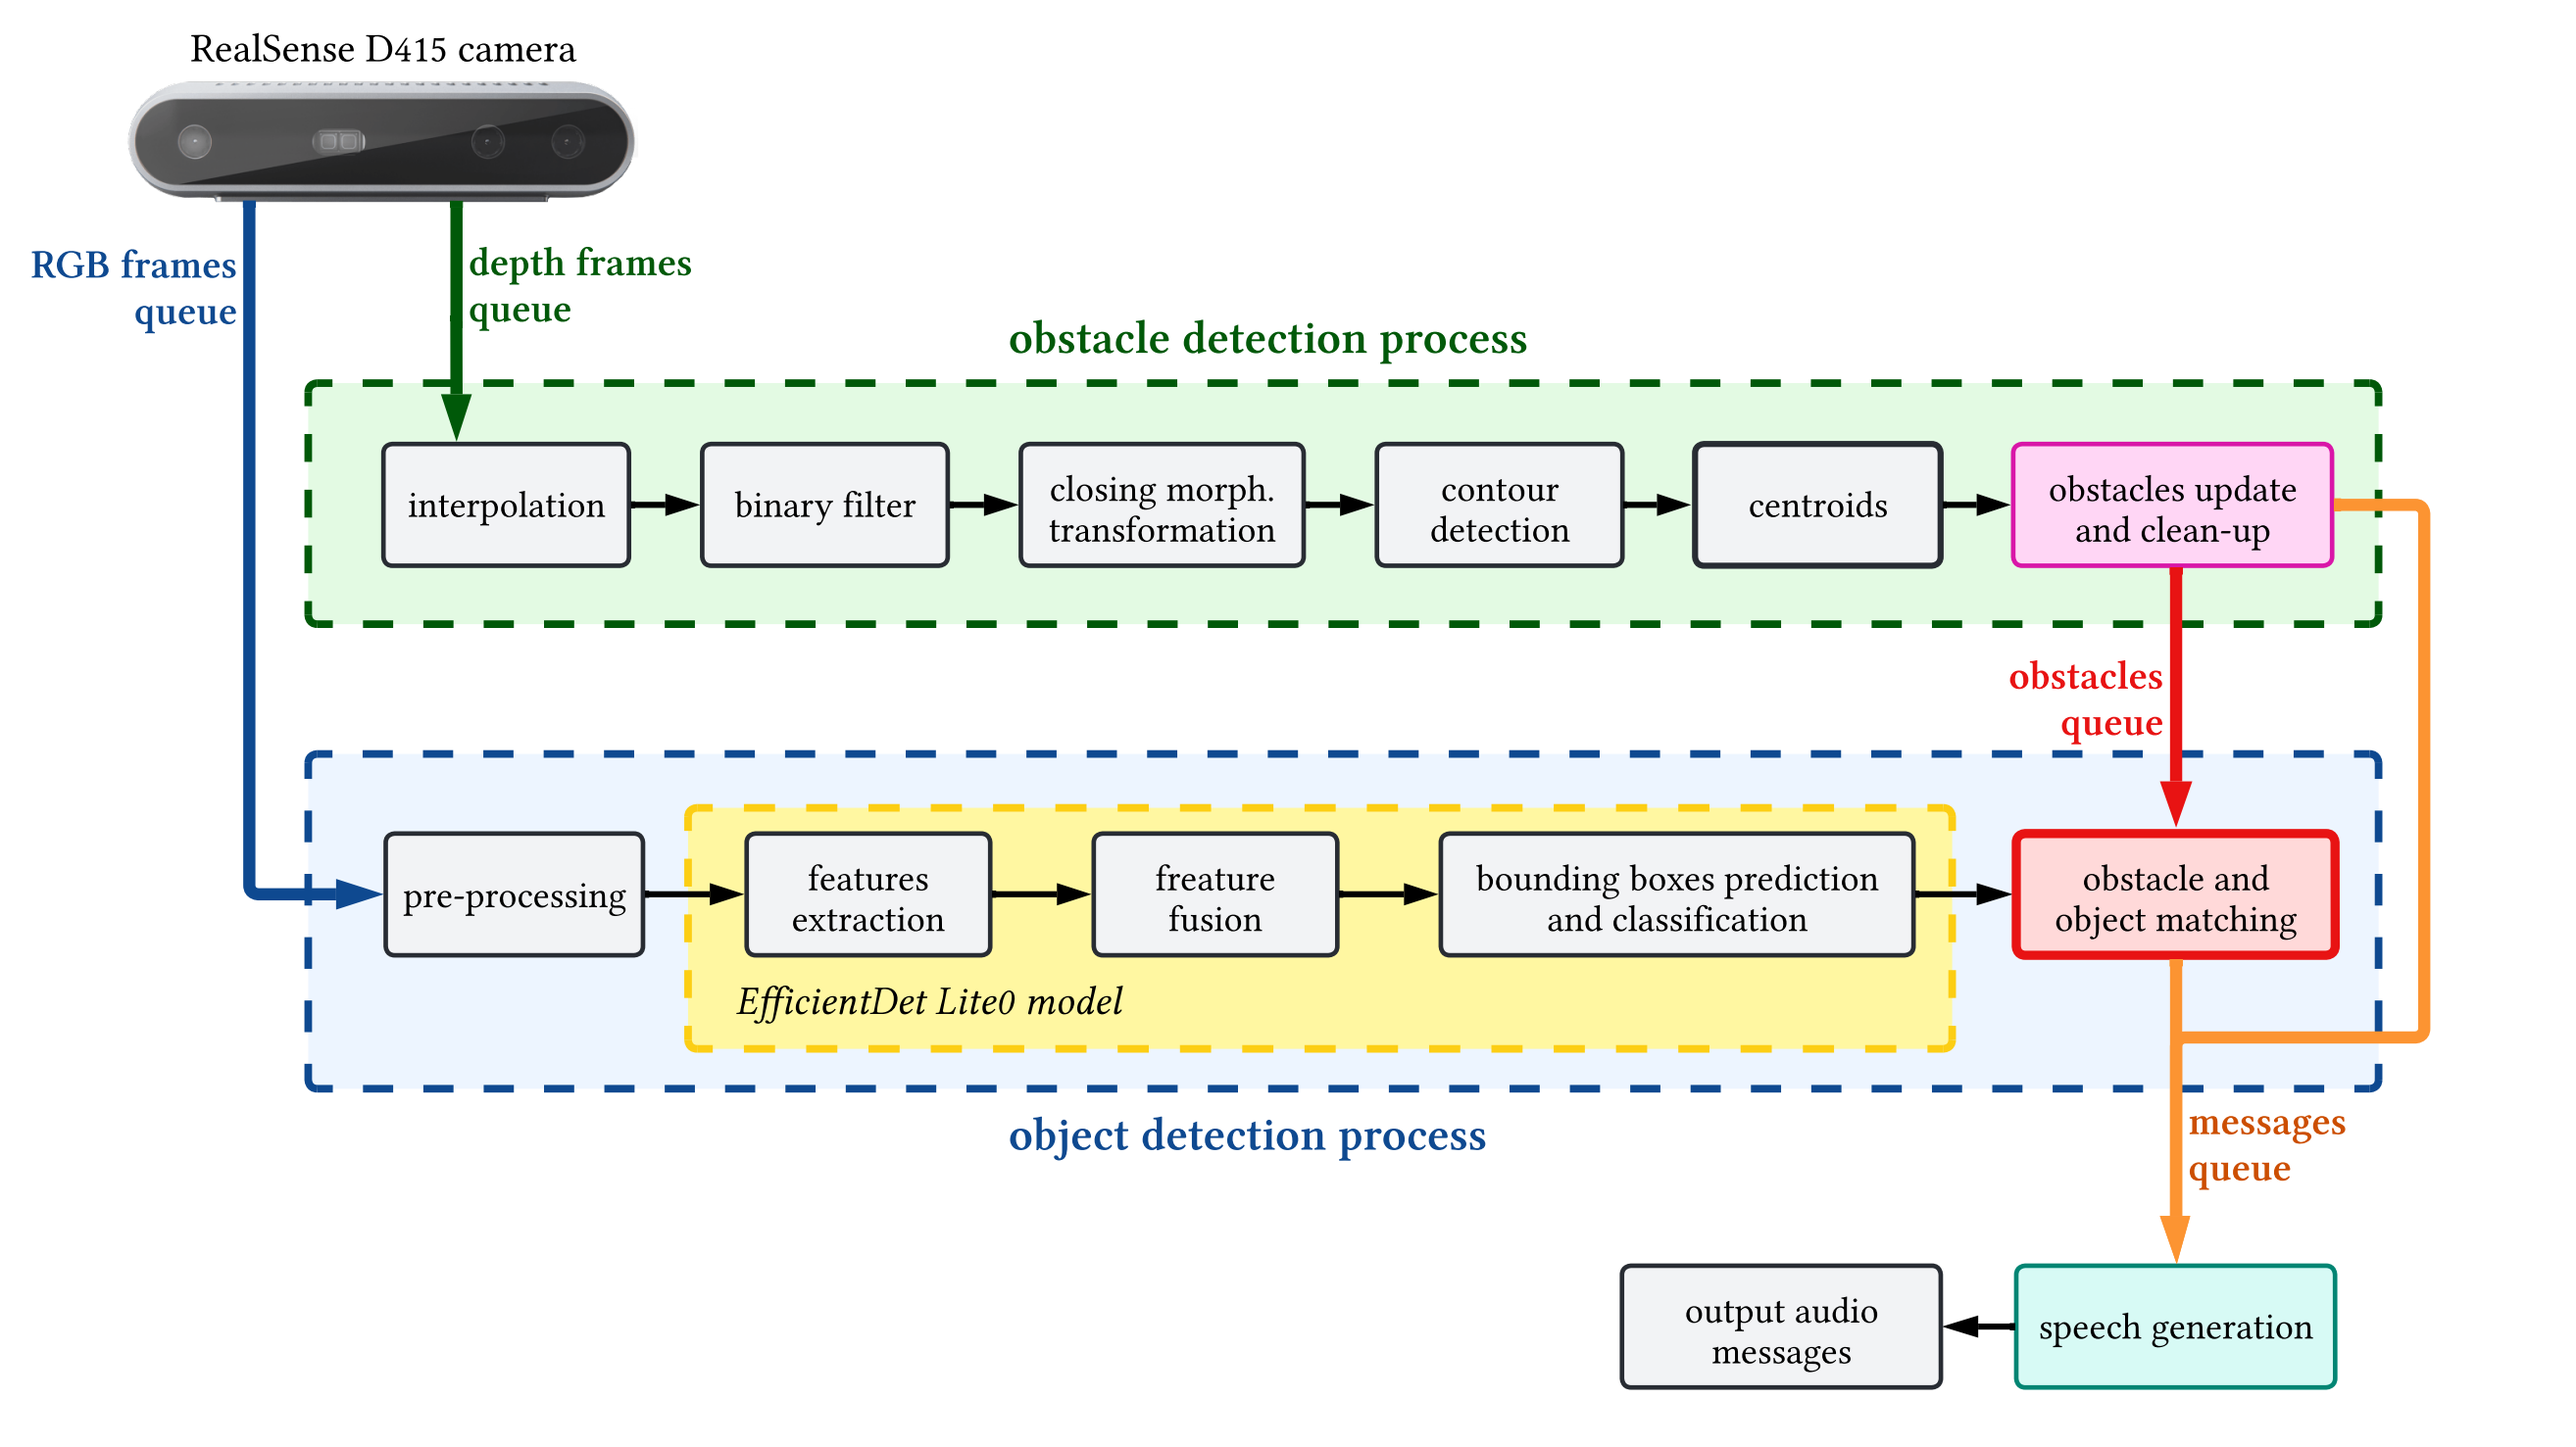
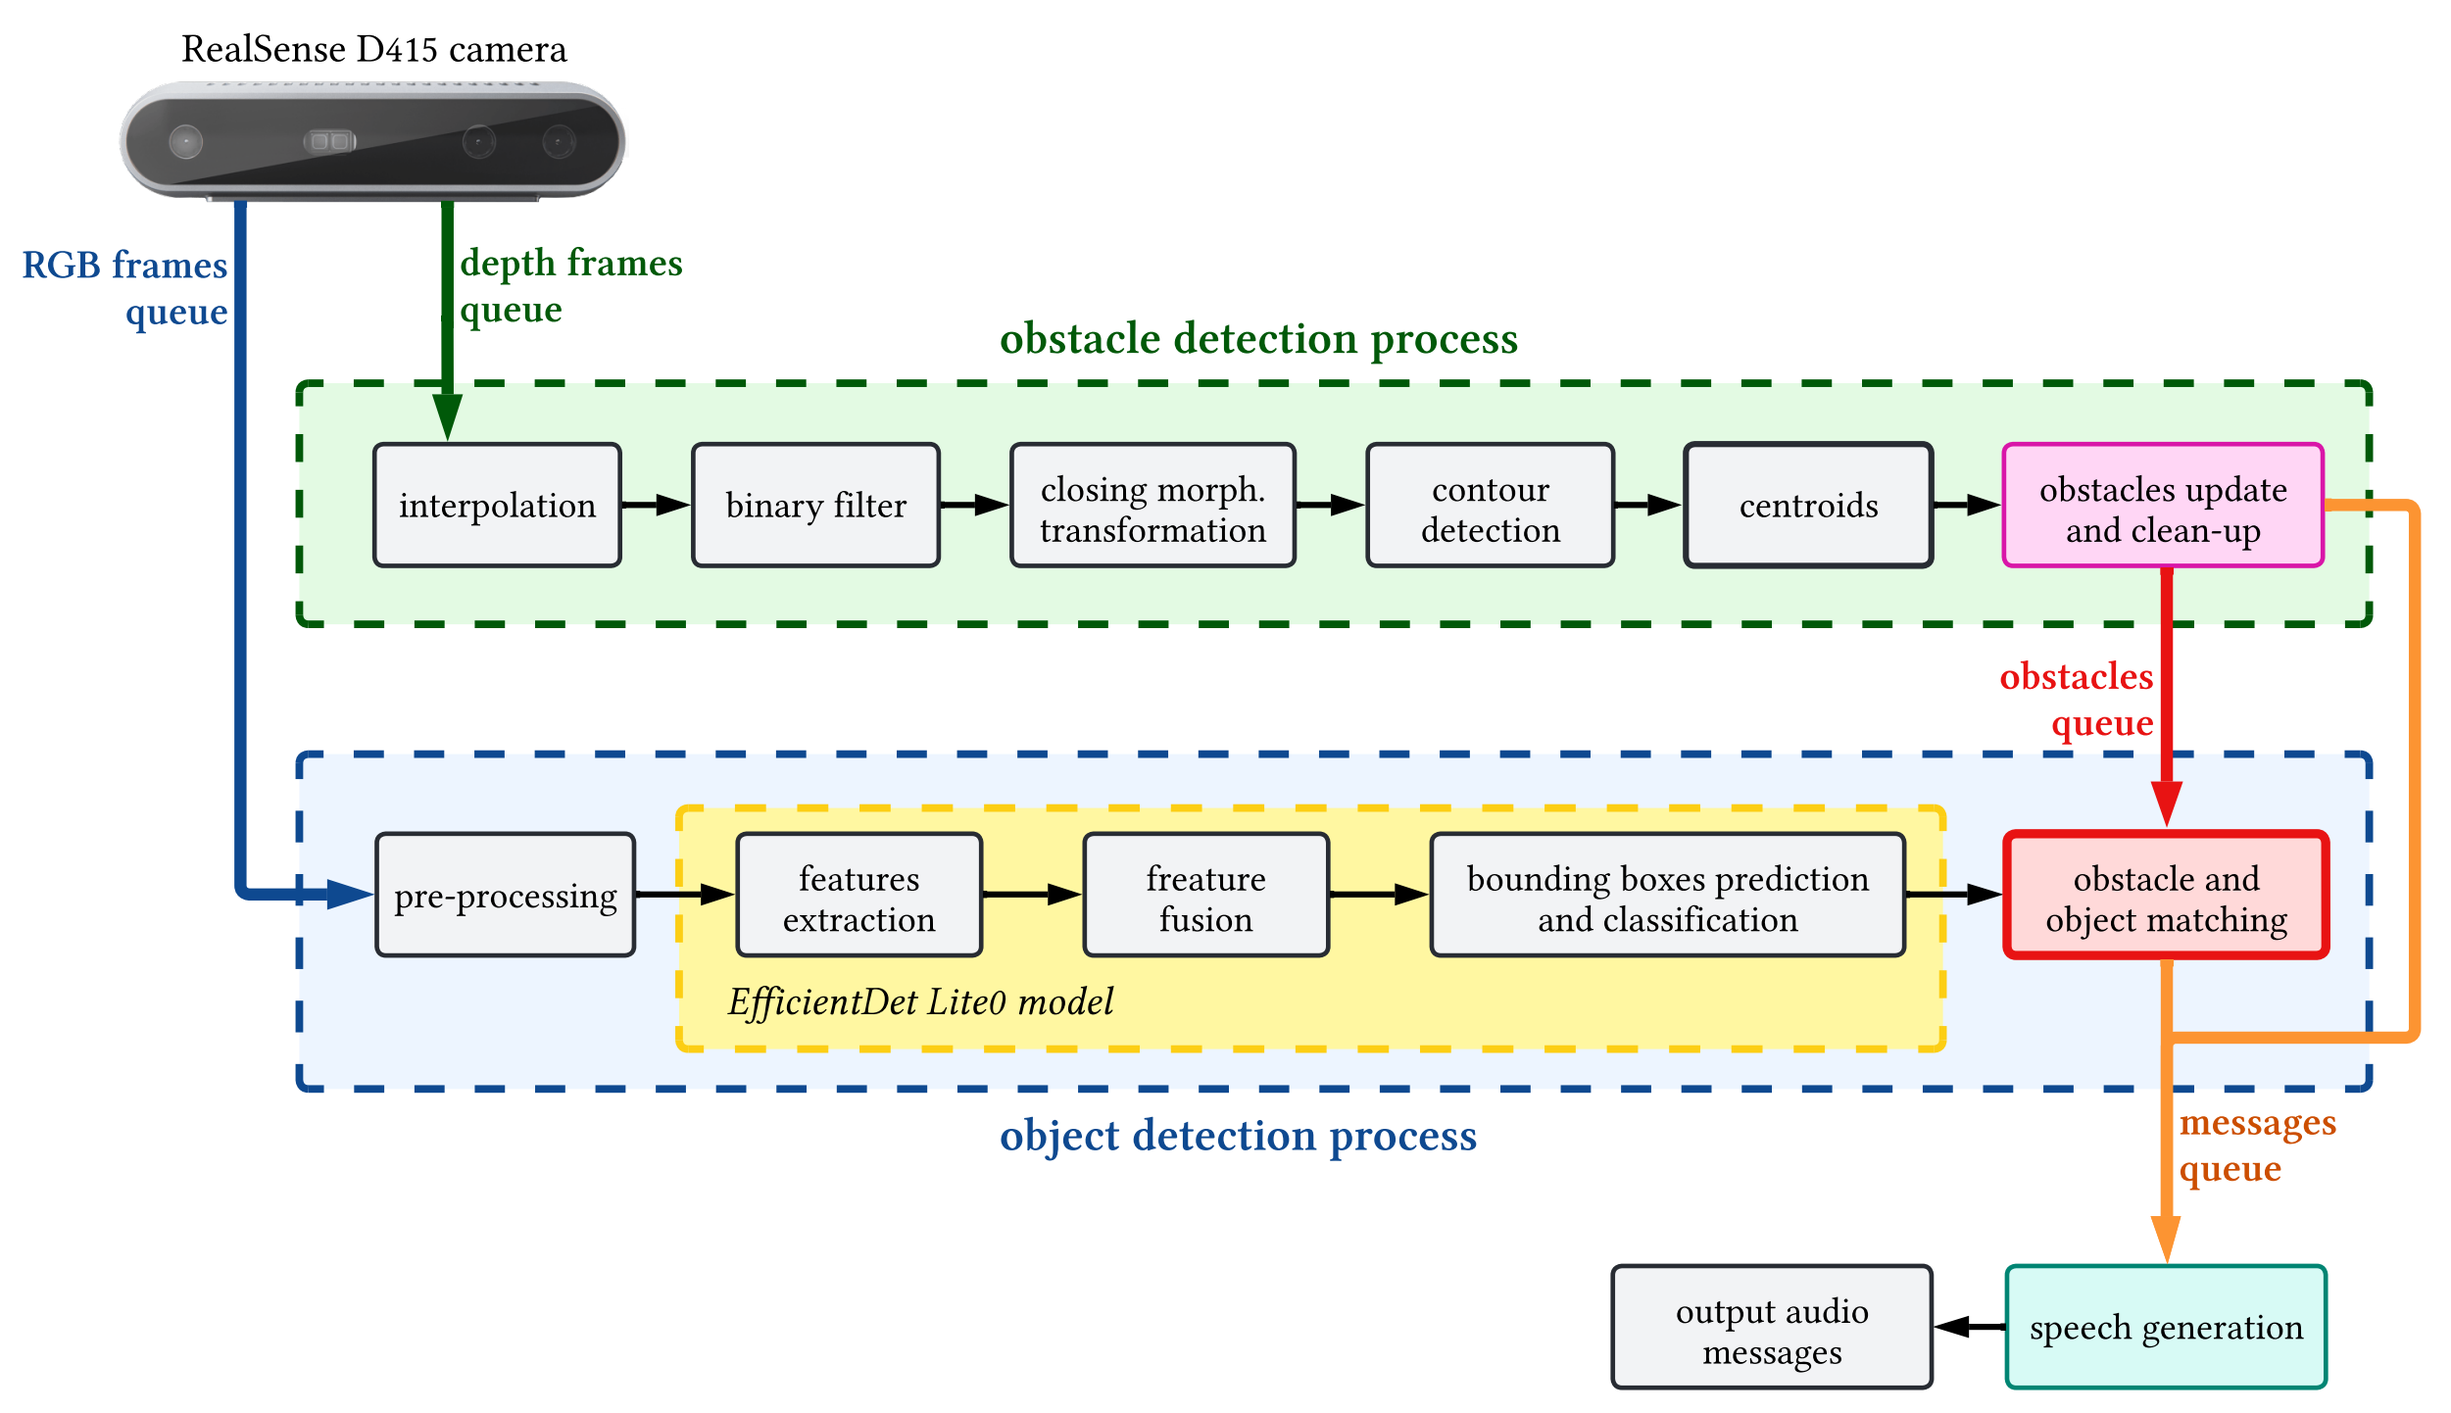
various graphical and content updates

Changed region(s): [[0.0, 0.0312, 0.998, 0.9986], [0.0312, 0.0936, 0.0624, 0.1248]]

diff --git a/src/content/resume.ts b/src/content/resume.ts
@@ -15,6 +15,11 @@ export type Link = {
   download?: string | boolean;
 };
 
+/** Rich intro segments for the home page: plain text or inline links. */
+export type IntroPart =
+  | { type: "text"; text: string }
+  | { type: "link"; text: string; href: string; external?: boolean };
+
 /*
  * One project inside a position, told as prose rather than as bullets. The four
  * fields are the four beats of a case study and each one is titled on the page,
@@ -60,11 +65,11 @@ export type Project = {
   tools: string[];
   /** Optional repository or write-up URL. When set, the title becomes a link. */
   href?: string;
-  /** Optional figure shown after the description once expanded. */
-  image?: {
+  /** Optional preview figures shown under the title, before the description. */
+  images?: {
     src: string;
     alt: string;
-  };
+  }[];
 };
 
 export type Education = {
@@ -76,9 +81,11 @@ export type Education = {
   notes: string[];
 };
 
+export type SkillItem = string | { label: string; href: string };
+
 export type SkillGroup = {
   label: string;
-  items: string[];
+  items: SkillItem[];
 };
 
 /* ------------------------------------------------------------------ */
@@ -95,7 +102,43 @@ export const profile = {
   site: "napolitanodar.io",
   intro:
     "Hi! I'm a Computer Science and Engineering student at Politecnico di Milano. Alongside my studies I've worked as a performance engineer, and on projects in computer vision and deep learning. Lately I've been having fun with Rust and self-hosting. You're welcome to poke around and learn more about my academic and professional journey.",
-}; 
+};
+
+/** Home intro with inline links; keep in sync with profile.intro for metadata. */
+export const introParts: IntroPart[] = [
+  {
+    type: "text",
+    text: "Hi! I'm a Computer Science and Engineering student at ",
+  },
+  {
+    type: "link",
+    text: "Politecnico di Milano",
+    href: "https://www.polimi.it/en/",
+    external: true,
+  },
+  {
+    type: "text",
+    text: ". Alongside my studies I've worked as a ",
+  },
+  {
+    type: "link",
+    text: "performance engineer",
+    href: "/resume#work",
+  },
+  {
+    type: "text",
+    text: ", and on ",
+  },
+  {
+    type: "link",
+    text: "projects",
+    href: "/resume#projects",
+  },
+  {
+    type: "text",
+    text: " in computer vision and deep learning. Lately I've been having fun with Rust and self-hosting. You're welcome to poke around and learn more about my academic and professional journey.",
+  },
+];
 
 /** Shown in the hero and repeated in the footer. */
 export const links: Link[] = [
@@ -211,6 +254,12 @@ export const projects: Project[] = [
     ],
     tools: ["Arduino UNO Q", "scikit-learn", "Firebase", "Flask"],
     href: "https://github.com/napolitanodario/SafeNet-Arduino-hackaton",
+    images: [
+      {
+        src: "/arduino_hackaton.jpg",
+        alt: "Arduino UNO Q hackathon desk with breadboard, RFID reader and wiring for SafeNet.",
+      },
+    ],
   },
   {
     title: "Deep Learning Competitions",
@@ -223,6 +272,12 @@ export const projects: Project[] = [
     ],
     tools: ["TensorFlow", "PyTorch", "Keras", "OpenCV", "scikit-learn"],
     href: "https://github.com/napolitanodario/ANNDL-competition-2024",
+    images: [
+      {
+        src: "/segformer.jpg",
+        alt: "SegFormer encoder-decoder architecture diagram used in the deep learning competitions.",
+      },
+    ],
   },
   {
     title: "Visual Impairment Assistant",
@@ -234,10 +289,12 @@ export const projects: Project[] = [
     ],
     tools: ["OpenCV", "TensorFlow", "Intel RealSense", "multiprocessing"],
     href: "https://github.com/napolitanodario/visual-impaiment-assistant",
-    image: {
-      src: "/processing_schema.png",
-      alt: "Processing schema of the visual impairment assistant: RealSense depth and RGB queues, obstacle and object detection pipelines, matching, and speech output.",
-    },
+    images: [
+      {
+        src: "/processing_schema.png",
+        alt: "Processing schema of the visual impairment assistant: RealSense depth and RGB queues, obstacle and object detection pipelines, matching, and speech output.",
+      },
+    ],
   },
   {
     title: "Natural Language Processing Competition",
@@ -268,6 +325,12 @@ export const projects: Project[] = [
     ],
     tools: ["Flutter", "Gemini API", "Firebase", "Spoonacular"],
     href: "https://github.com/napolitanodario/DIMA-PantryDish-documentation",
+    images: [
+      {
+        src: "/PantryDish_screens.png",
+        alt: "PantryDish mobile screens: recipe feed, pantry, saved recipes and profile preferences.",
+      },
+    ],
   },
   {
     title: "AI Dobble - Card Recognition",
@@ -278,6 +341,12 @@ export const projects: Project[] = [
     ],
     tools: ["Python", "Keras", "TensorFlow", "OpenCV", "scikit-learn"],
     href: "https://github.com/napolitanodario/ai-dobble-v3",
+    images: [
+      {
+        src: "/dobble_augmentations_cover.png",
+        alt: "Grid of Dobble cards with lighting and geometry augmentations used for training.",
+      },
+    ],
   },
   {
     title: "Neural Network from Scratch",
@@ -288,6 +357,12 @@ export const projects: Project[] = [
     ],
     tools: ["Python", "NumPy"],
     href: "https://github.com/napolitanodario/ML-neural-network-from-scratch",
+    images: [
+      {
+        src: "/neural_network_digits.png",
+        alt: "Diagram of a feed-forward network classifying handwritten digits from flattened pixels.",
+      },
+    ],
   },
 ];
 
@@ -382,7 +457,12 @@ export const skills: SkillGroup[] = [
   },
   {
     label: "Certifications",
-    items: ["Dynatrace Associate"],
+    items: [
+      {
+        label: "Dynatrace Associate",
+        href: "https://www.credly.com/badges/0b181577-8c5a-4faf-a78a-82ece15f6c2d/public_url",
+      },
+    ],
   },
   {
     label: "Spoken languages",

diff --git a/src/components/project-list.tsx b/src/components/project-list.tsx
@@ -27,22 +27,60 @@ function paragraphsOf(description: Project["description"]): string[] {
   return Array.isArray(description) ? description : [description];
 }
 
+/*
+ * Max height matches Visual Impairment's processing_schema (2501x1442) at full
+ * column width. Taller images shrink in width and stay centered.
+ */
+const PREVIEW_MAX_HEIGHT = "max-h-[calc(100cqi*1442/2501)]";
+
+function ProjectPreviews({ images }: { images: NonNullable<Project["images"]> }) {
+  const multi = images.length > 1;
+
+  return (
+    <div
+      className={
+        multi
+          ? "mt-5 grid gap-3 sm:grid-cols-2"
+          : "mt-5"
+      }
+    >
+      {images.map((image) => (
+        <figure
+          key={image.src}
+          className="@container flex w-full justify-center"
+        >
+          <Image
+            src={image.src}
+            alt={image.alt}
+            width={2501}
+            height={1442}
+            unoptimized
+            sizes={
+              multi
+                ? "(max-width: 640px) 100vw, 28rem"
+                : "(max-width: 768px) 100vw, 48rem"
+            }
+            className={`h-auto w-auto max-w-full ${PREVIEW_MAX_HEIGHT}`}
+          />
+        </figure>
+      ))}
+    </div>
+  );
+}
+
 function ExpandableDescription({
   description,
-  image,
 }: {
   description: Project["description"];
-  image?: Project["image"];
 }) {
   const paragraphs = paragraphsOf(description);
   const fullText = paragraphs.join(" ");
   const [expanded, setExpanded] = useState(false);
   const collapsible = fullText.length > COLLAPSE_AFTER_CHARS;
-
   const collapsed = collapsible && !expanded;
 
   return (
-    <div className="mt-3">
+    <div className="mt-5">
       <div className="relative">
         <div
           className={`space-y-4 ${
@@ -62,18 +100,6 @@ function ExpandableDescription({
         </div>
       </div>
 
-      {(expanded || !collapsible) && image ? (
-        <figure className="mt-6">
-          <Image
-            src={image.src}
-            alt={image.alt}
-            width={1600}
-            height={900}
-            className="h-auto w-full border border-rule"
-          />
-        </figure>
-      ) : null}
-
       {collapsible ? (
         <button
           type="button"
@@ -88,10 +114,9 @@ function ExpandableDescription({
 }
 
 /*
- * Project showcase. Mirrors the layout of the work section, with the venue
- * in place of the period and a row of tool tags closing each entry.
- * When a project has a GitHub href, an icon beside the title opens the repo.
- * Long descriptions collapse behind read more so the section stays scannable.
+ * Project showcase. Title and venue first, then an optional preview strip,
+ * then the expandable write-up and tool tags. Previews stay visible so the
+ * list can be scanned without opening every entry.
  */
 export function ProjectList() {
   return (
@@ -116,10 +141,11 @@ export function ProjectList() {
             <p className="label text-ink-faint">{project.venue}</p>
           </header>
 
-          <ExpandableDescription
-            description={project.description}
-            image={project.image}
-          />
+          {project.images && project.images.length > 0 ? (
+            <ProjectPreviews images={project.images} />
+          ) : null}
+
+          <ExpandableDescription description={project.description} />
 
           <ul className="mt-4 flex flex-wrap gap-2">
             {project.tools.map((tool) => (

diff --git a/src/components/hero.tsx b/src/components/hero.tsx
@@ -1,6 +1,10 @@
 import Image from "next/image";
+import Link from "next/link";
 
-import { links, profile } from "@/content/resume";
+import { introParts, links, profile } from "@/content/resume";
+
+const introLinkClassName =
+  "text-ink underline decoration-rule underline-offset-4 transition-colors hover:text-accent hover:decoration-accent";
 
 /*
  * The entire content of the home page: portrait, role, name, introduction
@@ -31,7 +35,31 @@ export function Hero() {
       </h1>
 
       <p className="mt-6 max-w-2xl text-lg leading-relaxed text-ink-muted text-pretty">
-        {profile.intro}
+        {introParts.map((part, index) => {
+          if (part.type === "text") {
+            return <span key={index}>{part.text}</span>;
+          }
+
+          if (part.external) {
+            return (
+              <a
+                key={index}
+                href={part.href}
+                target="_blank"
+                rel="noreferrer"
+                className={introLinkClassName}
+              >
+                {part.text}
+              </a>
+            );
+          }
+
+          return (
+            <Link key={index} href={part.href} className={introLinkClassName}>
+              {part.text}
+            </Link>
+          );
+        })}
       </p>
 
       <div className="mt-8 flex flex-wrap items-center gap-x-6 gap-y-3">

diff --git a/src/components/skill-list.tsx b/src/components/skill-list.tsx
@@ -1,4 +1,9 @@
 import { skills } from "@/content/resume";
+import type { SkillItem } from "@/content/resume";
+
+function skillLabel(item: SkillItem): string {
+  return typeof item === "string" ? item : item.label;
+}
 
 /*
  * Skills, certifications and languages as a definition list: the group name
@@ -12,7 +17,23 @@ export function SkillList() {
         <div key={group.label} className="grid gap-2">
           <dt className="label text-ink-faint">{group.label}</dt>
           <dd className="leading-relaxed text-pretty">
-            {group.items.join(", ")}
+            {group.items.map((item, index) => (
+              <span key={skillLabel(item)}>
+                {index > 0 ? ", " : null}
+                {typeof item === "string" ? (
+                  item
+                ) : (
+                  <a
+                    href={item.href}
+                    target="_blank"
+                    rel="noreferrer"
+                    className="underline decoration-rule underline-offset-4 transition-colors hover:text-accent hover:decoration-accent"
+                  >
+                    {item.label}
+                  </a>
+                )}
+              </span>
+            ))}
           </dd>
         </div>
       ))}
